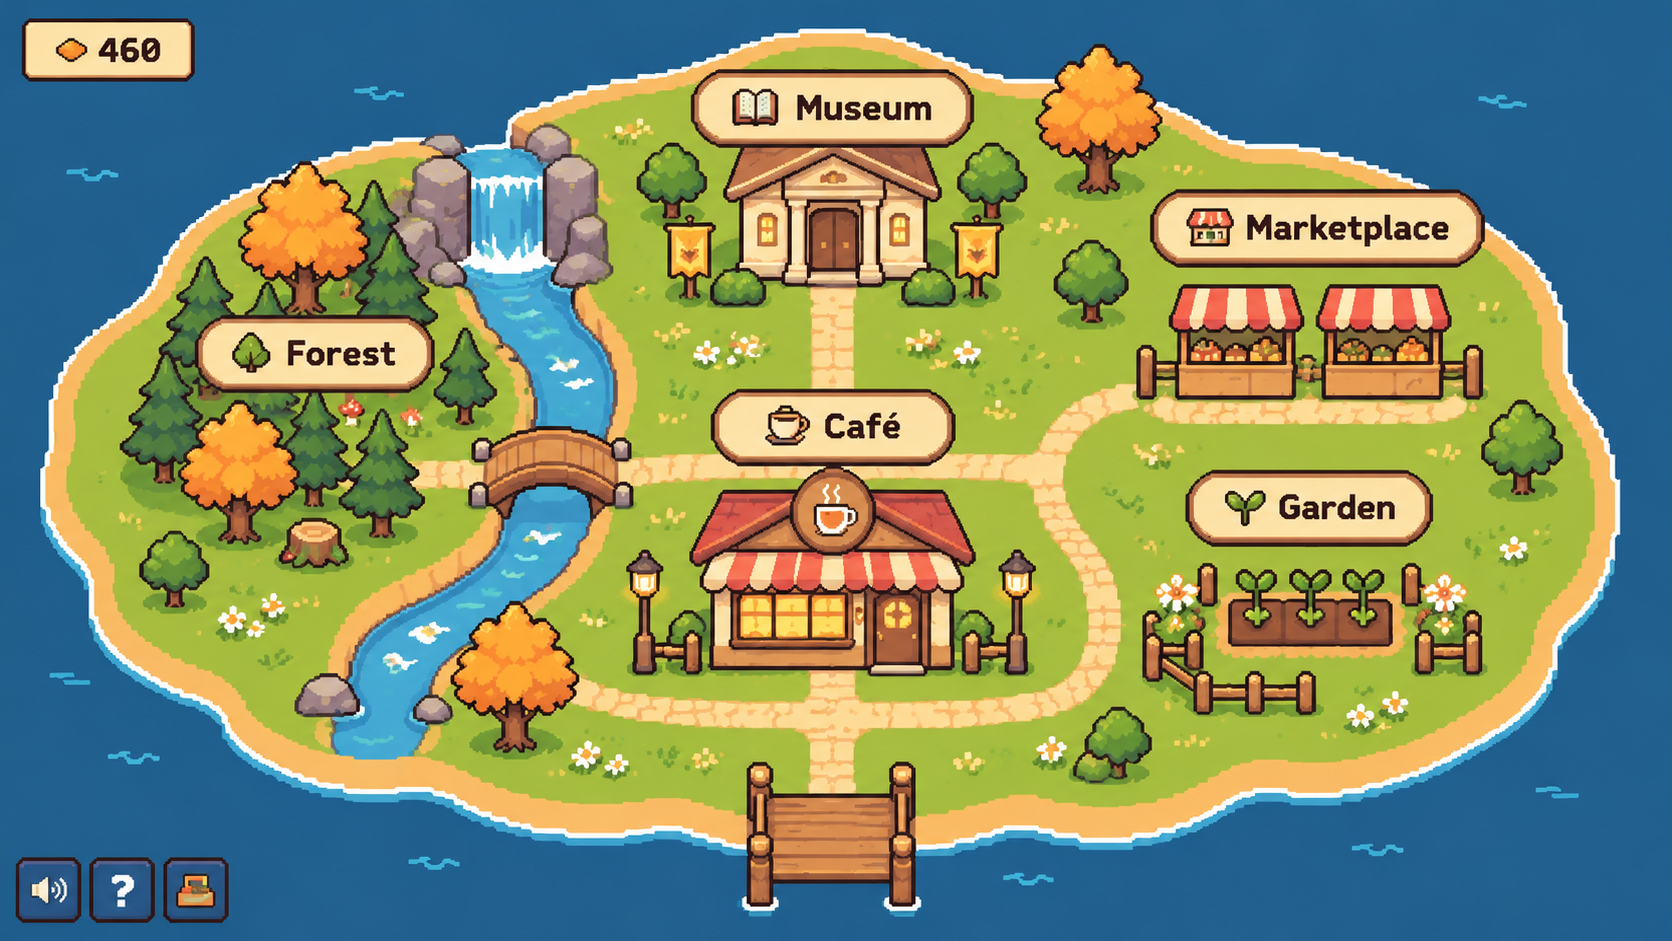
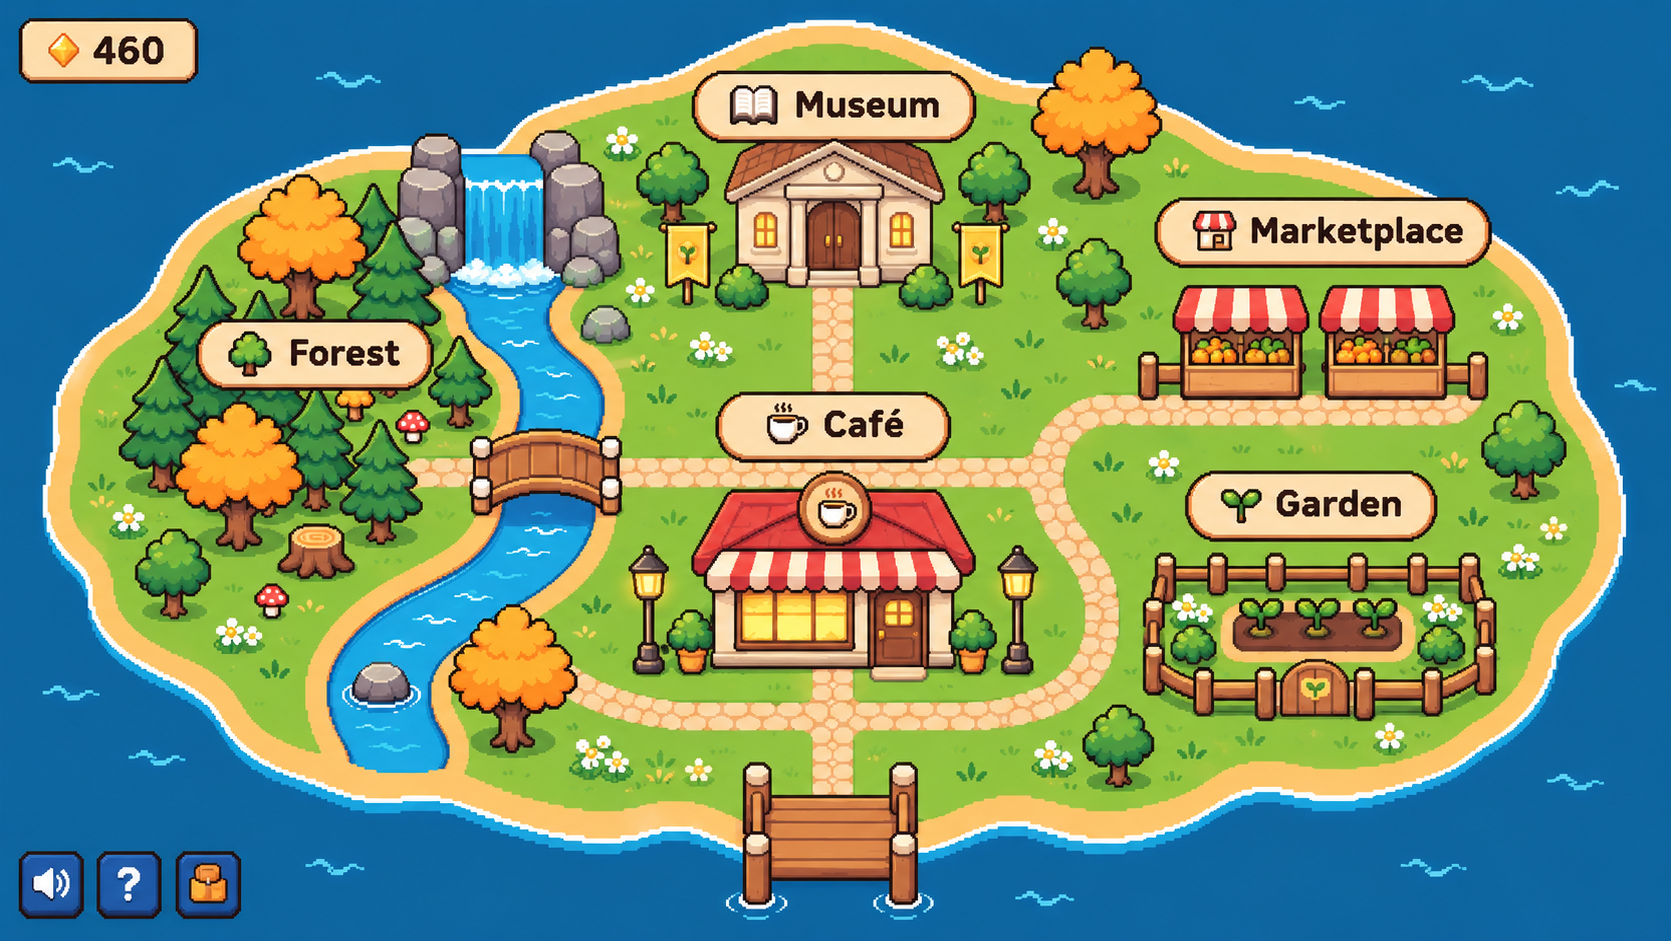
art: update island map with approved quality fixes

diff --git a/src/data/mapPresentation.ts b/src/data/mapPresentation.ts
@@ -2,13 +2,13 @@
 export const MAP_PLACES = {
   museum: { x: 319, y: 84, width: 102, height: 64, sign: { dy: -43, width: 108, height: 28 } },
   cafe: { x: 319, y: 224, width: 112, height: 80, sign: { dy: -60, width: 92, height: 28 } },
-  garden: { x: 501, y: 243, width: 134, height: 62, sign: { dy: -49, width: 94, height: 28 } },
+  garden: { x: 502, y: 243, width: 134, height: 62, sign: { dy: -48, width: 96, height: 28 } },
   forest: { x: 121, y: 179, width: 138, height: 112, sign: { dy: -43, width: 90, height: 28 } },
-  marketplace: { x: 505, y: 132, width: 132, height: 48, sign: { dy: -45, width: 128, height: 28 } },
+  marketplace: { x: 506, y: 132, width: 132, height: 48, sign: { dy: -43, width: 128, height: 28 } },
 } as const;
 
 export const MAP_HUD = {
-  speaker: { x: 19, y: 340, size: 24 },
-  notes: { x: 47, y: 340, size: 24 },
-  inventory: { x: 75, y: 340, size: 24 },
+  speaker: { x: 20, y: 339, size: 24 },
+  notes: { x: 49, y: 339, size: 24 },
+  inventory: { x: 80, y: 339, size: 24 },
 } as const;

diff --git a/src/assets/worldMap/README.md b/src/assets/worldMap/README.md
@@ -1,6 +1,7 @@
 # Island map artwork
 
-`source/island.png` is the user's original approved island illustration.
+`source/island.png` is the user's approved illustration with quality fixes,
+supplied on 19 November 2026, replacing the earlier island illustration.
 Load it directly and preserve its bytes. `src/data/mapPresentation.ts` maps
 its landmarks and labels to the 640×360 game canvas.
 
